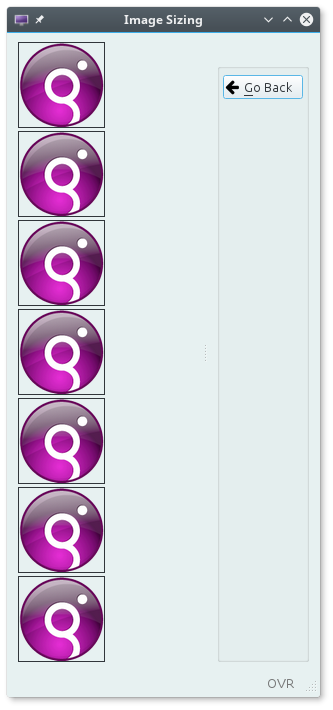
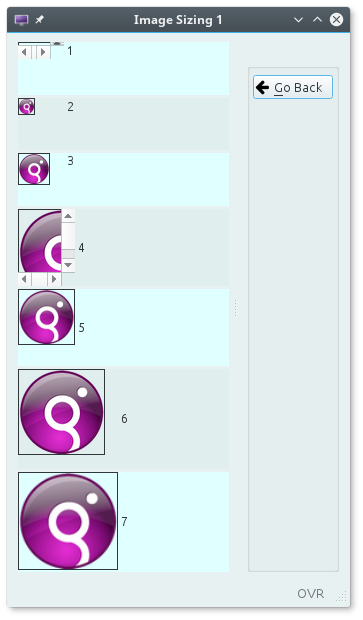
image sizing

diff --git a/README.md b/README.md
@@ -58,7 +58,9 @@ Pad form with centered items and bottom of the screen.
 
 ## Image Sizing 1
 7 Image Sizing tests.
+![scr1](https://github.com/neilm-fourjs/layout_tests/raw/master/screenshots/layouts_7_sizing_gbc.png "Image Sizing 1")
 ![scr1](https://github.com/neilm-fourjs/layout_tests/raw/master/screenshots/layouts_7_sizing_gdc.png "Image Sizing 1")
+![scr1](https://github.com/neilm-fourjs/layout_tests/raw/master/screenshots/layouts_7_sizing_gma.png "Image Sizing 1")
 
 ## Image Sizing 2
 More Image Sizing tests.
